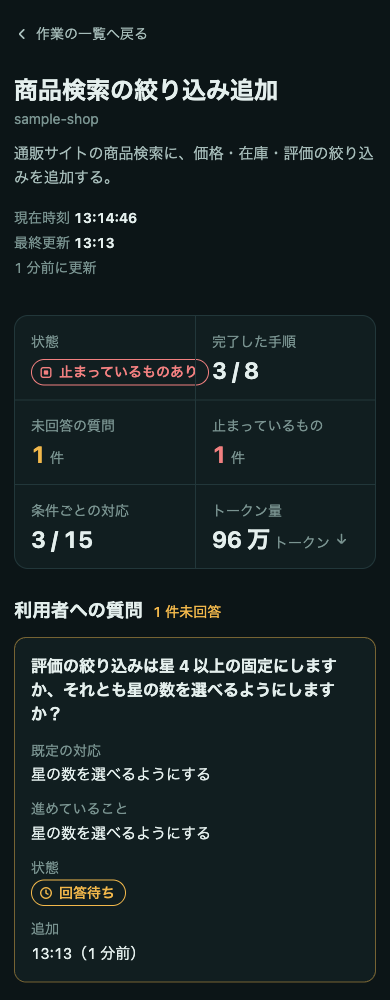
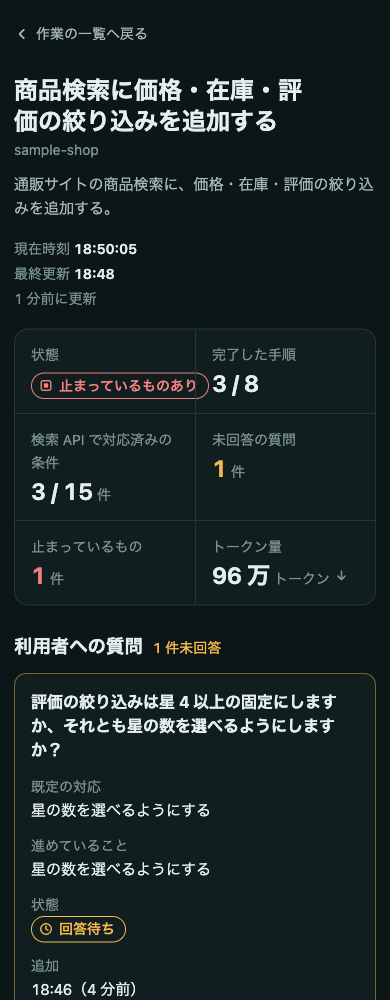
ダッシュボードに作業したセッションの ID と再開のコマンドを表示する
作業ごとのダッシュボードの下部に、セッションの ID、作業ディレクトリ、
`cd '<作業ディレクトリ>' && claude --resume <ID>` の再開のコマンドを表示し、
一覧の各行にセッションの ID の先頭 8 文字を出す。一覧で止まっている作業を
見つけたときに、コマンドをコピーしてその会話に戻れるようにするため。

- dashboard-usage.py が、フックに渡された session_id に加えて cwd を .usage.js に書く
- dashboard-builder の仕様に、.usage.js の sessionId と cwd の形と表示の仕方を足す。
  値は .usage.js からだけ取り、モデルに推測させない。作業ディレクトリは単一引用符で囲む
- コピーは navigator.clipboard.writeText が成功したときだけ「コピーしました」と示し、
  失敗したときは文字列を選んで手でコピーするよう案内する
- tests/run.sh に仕様とフックの出力の確認を足す
- README と説明ページに機能を書き、見本の画像を撮り直す。セッションの欄は、
  ページの下部にあるため別の画像にする

diff --git a/docs/index.html b/docs/index.html
@@ -125,7 +125,7 @@ code, pre { font-family: var(--mono); font-size: 0.88em; }
 .shot img { border: 1px solid var(--line); border-radius: 12px; box-shadow: var(--shadow); }
 .shot figcaption { font-size: 13px; color: var(--muted); }
 .features { display: grid; grid-template-columns: repeat(auto-fit, minmax(260px, 1fr)); gap: 12px 32px; list-style: none; margin: 0; padding: 0; }
-.features li { display: grid; gap: 2px; padding-block: 12px; border-top: 1px solid var(--line); }
+.features li { display: grid; align-content: start; gap: 2px; padding-block: 12px; border-top: 1px solid var(--line); }
 .features b { font-weight: 700; }
 .features span { color: var(--muted); font-size: 15px; }
 
@@ -224,7 +224,7 @@ footer { max-width: 1000px; margin: 0 auto; padding-top: 40px; border-top: 1px s
     </div>
     <div class="shots">
       <figure class="shot">
-        <img src="images/dashboard-desktop.png" width="1280" height="1110" alt="作業ごとのダッシュボード。上部に状態、完了した手順、未回答の質問、止まっているもの、トークン量。その下に質問と止まっているもの、手順のカンバンが並ぶ">
+        <img src="images/dashboard-desktop.png" width="1280" height="1030" alt="作業ごとのダッシュボード。上部に状態、完了した手順、作業に合わせた数値、未回答の質問、止まっているもの、トークン量。その下に質問と止まっているもの、手順のカンバンが並ぶ">
         <figcaption>作業ごとのダッシュボード。架空の通販サイトの作業で作った見本です。</figcaption>
       </figure>
       <figure class="shot phone">
@@ -237,12 +237,17 @@ footer { max-width: 1000px; margin: 0 auto; padding-top: 40px; border-top: 1px s
       <li><b>質問と既定の対応</b><span>判断が必要になっても止まらず、既定の対応で進めていることを載せます。</span></li>
       <li><b>止まっているもの</b><span>何が、なぜ、いつから止まっていて、次に何をするかを載せます。</span></li>
       <li><b>トークン量の目安</b><span>作業本体と、ダッシュボードの作成と更新に分けて、使ったトークン量を出します。</span></li>
+      <li><b>作業したセッションに戻る</b><span>セッションの ID と、<code>claude --resume</code> で再開するコマンドを載せます。コピーして、作業した会話に戻れます。</span></li>
       <li><b>全体の一覧</b><span>全プロジェクトの作業を並べ、更新が止まっている作業を目立たせます。</span></li>
       <li><b>ブラウザで開くだけ</b><span>サーバーもツールも要りません。HTML を開けばブラウザで見られ、10 秒ごとにデータだけを読み直します。ページごと再読み込みしないので、ちらつかず、スクロール位置もそのままです。パネルの構成を変えたときだけ、1 回読み直します。</span></li>
     </ul>
     <figure class="shot">
-      <img src="images/index-desktop.png" width="1280" height="330" alt="全プロジェクトの作業の一覧。作業名、状態、完了した手順、未回答の質問、止まっているもの、トークン量が 1 行に並ぶ">
+      <img src="images/index-desktop.png" width="1280" height="370" alt="全プロジェクトの作業の一覧。作業名、セッションの ID の先頭、状態、完了した手順、未回答の質問、止まっているもの、トークン量が 1 行に並ぶ">
       <figcaption>全プロジェクトの作業の一覧。</figcaption>
+    </figure>
+    <figure class="shot">
+      <img src="images/dashboard-session.png" width="1280" height="360" alt="セッションの欄。セッションの ID、作業ディレクトリ、claude --resume で再開するコマンドが並び、ID とコマンドにはコピーのボタンが付く">
+      <figcaption>ページの下部にあるセッションの欄。コマンドをコピーして、作業した会話に戻れます。</figcaption>
     </figure>
   </section>
 
@@ -371,7 +376,7 @@ footer { max-width: 1000px; margin: 0 auto; padding-top: 40px; border-top: 1px s
       <div class="part">
         <span class="who">フック</span>
         <h3>書き込みを、スクリプトで確かめる</h3>
-        <p>ガードが読み書きできる場所を絞り、書いた直後に JSON が正しいかを確かめます。トークン量は、Claude Code の会話の記録からスクリプトが集計します。</p>
+        <p>ガードが読み書きできる場所を絞り、書いた直後に JSON が正しいかを確かめます。トークン量は、Claude Code の会話の記録からスクリプトが集計します。セッションの ID と作業ディレクトリも、フックに渡された値をスクリプトが書きます。</p>
       </div>
     </div>
   </section>

diff --git a/hooks/dashboard-usage.py b/hooks/dashboard-usage.py
@@ -2,7 +2,8 @@
 """dashboard-builder か dashboard-updater が作業ごとのダッシュボードかそのデータファイルを書いた直後に、その作業のトークン量を集計する。
 
 会話の記録（Claude 本体とサブエージェント）から、ダッシュボードを用意し始めた時刻以降の
-トークン量を合計し、ダッシュボードと同じフォルダーの <作業>.usage.js に書く。ダッシュボードの HTML と
+トークン量を合計し、ダッシュボードと同じフォルダーの <作業>.usage.js に書く。
+作業したセッションに戻れるよう、セッションの ID と作業ディレクトリも一緒に書く。ダッシュボードの HTML と
 データファイルはエージェントが編集中のため、このスクリプトは書き換えない。
 集計に失敗してもエージェントの作業は止めない。
 """
@@ -147,6 +148,7 @@ def main():
         "since": int(since),
         "updatedAt": int(time.time()),
         "sessionId": payload.get("session_id"),
+        "cwd": payload.get("cwd"),
         "totals": totals,
         "byCategory": categories,
         "byModel": by_model,

diff --git a/agents/dashboard-builder.md b/agents/dashboard-builder.md
@@ -142,6 +142,8 @@ hooks:
   {
     "since": 1790476873,
     "updatedAt": 1790477245,
+    "sessionId": "1ee36b5d-e590-4b2c-a4d7-a311ccb49c5b",
+    "cwd": "/path/to/project",
     "totals": { "input": 0, "output": 0, "cacheRead": 0, "cacheWrite": 0, "total": 0 },
     "byCategory": {
       "main":      { "input": 0, "output": 0, "cacheRead": 0, "cacheWrite": 0, "total": 0 },
@@ -162,6 +164,16 @@ hooks:
 - 下部の各項目は、ラベルの下に値を置く。正確な値は、横に入りきらなければ次の行に回す
 - 下部の詳しい表示にだけ「目安です。サブエージェントの出力トークンは少なめに出ることがあります」と注記する。上部と一覧には注記を付けない
 - 一覧では、各作業の `.usage.js` を script 要素で読み込み、作業ごとの合計を表示する。一覧のデータと同じく 10 秒ごとに読み直す。読み込めない作業は「集計前」にする
+
+# セッション
+
+作業したセッションに戻れるよう、`.usage.js` の `sessionId`（Claude Code のセッションの ID）と `cwd`（作業ディレクトリ）を表示する。
+
+- 値は `.usage.js` からだけ取る。データファイルに書かない、推測しない。値がなければ「集計前」と表示する
+- 作業ごとのダッシュボードでは、ページの一番下の `id="usage"` の場所の直前に、`id="session"` の見出し付きの場所を置き、セッションの ID、作業ディレクトリ、再開のコマンドを載せる
+- 再開のコマンドは `cd <作業ディレクトリ> && claude --resume <セッションの ID>` にする。作業ディレクトリは単一引用符で囲み、中の `'` は `'\''` に置き換える。`cwd` がなければ `claude --resume <セッションの ID>` だけにする
+- セッションの ID と再開のコマンドは、等幅の字で、途中で切らずに全体を見せる。横に入りきらなければ折り返す。それぞれにコピーのボタンを付ける。`navigator.clipboard.writeText` が成功したときだけ「コピーしました」と短く示す。使えないときや失敗したときは、その文字列を選んだ状態にし、「選びました。⌘C か Ctrl+C でコピーしてください」と示す
+- 一覧では、各作業の行に、セッションの ID の先頭 8 文字を目立たない色で出す
 
 # 必ず載せる内容
 
